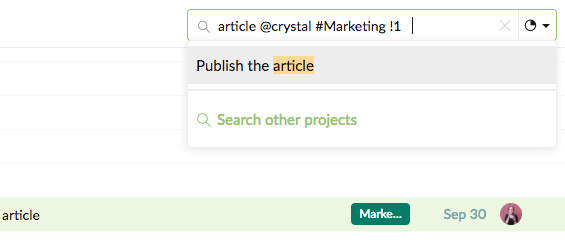
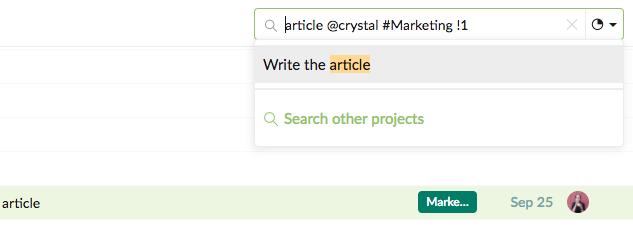
update auto assign post

diff --git a/_site/p/Type-it-while-you-think-it.html b/_site/p/Type-it-while-you-think-it.html
@@ -230,9 +230,9 @@
 
 <h2 id="when-you-add-a-new-task">When you add a new task...</h2>
 
-<p>You may want to get David to write an article that’s urgent and is related to design by Oct. 2nd.</p>
+<p>You may want to get David to write an article that’s urgent and is related to marketing by Oct. 2nd.</p>
 
-<p>Simply add a task, and type “Write the article **@David !1 #Design <10/2>” and press Enter.</p>
+<p>Simply add a task, and type “Write the article **@David !1 #Marketing <10/2>” and press Enter.</p>
 
 <div style="max-width: 550px; max-height: 134px; margin: 0 auto;">
 
@@ -240,7 +240,7 @@
 
 </div>
 
-<p>Your task would, of course, be automatically assigned to David, have a priority of Urgent, a due date of Oct. 2nd and the tag Design.</p>
+<p>Your task would, of course, be automatically assigned to David, have a priority of Urgent, a due date of Oct. 2nd and the tag Marketing.</p>
 
 <div style="max-width: 550px; max-height: 135px; margin: 0 auto;">
 
@@ -248,7 +248,7 @@
 
 </div>
 
-<p>If you want to set a start date as well, simply type &quot;Write the article @David #Design &lt;<strong>9/20</strong>; <strong>10/2</strong>&gt;&quot; and press Enter.</p>
+<p>If you want to set a start date as well, simply type &quot;Publish the article @David #Marketing &lt;<strong>9/20</strong>; <strong>10/2</strong>&gt;&quot; and press Enter.</p>
 
 <p>Obviously, when you type @, # or &lt;&gt; (with or without ;), you can use the Up or Down arrow key to select the assignee, tag or start/due date you want.</p>
 
@@ -288,7 +288,7 @@
 
 <p>You can also hover a task in the search results to highlight it in the tree list.</p>
 
-<div style="max-width: 550px; max-height: 236px; margin: 0 auto;">
+<div style="max-width: 550px; max-height: 200x; margin: 0 auto;">
 
 <p><img src="/blog/images/2016-04-26-Type-it-while-you-think-it/5.png" alt="My helpful screenshot" /></p>
 
